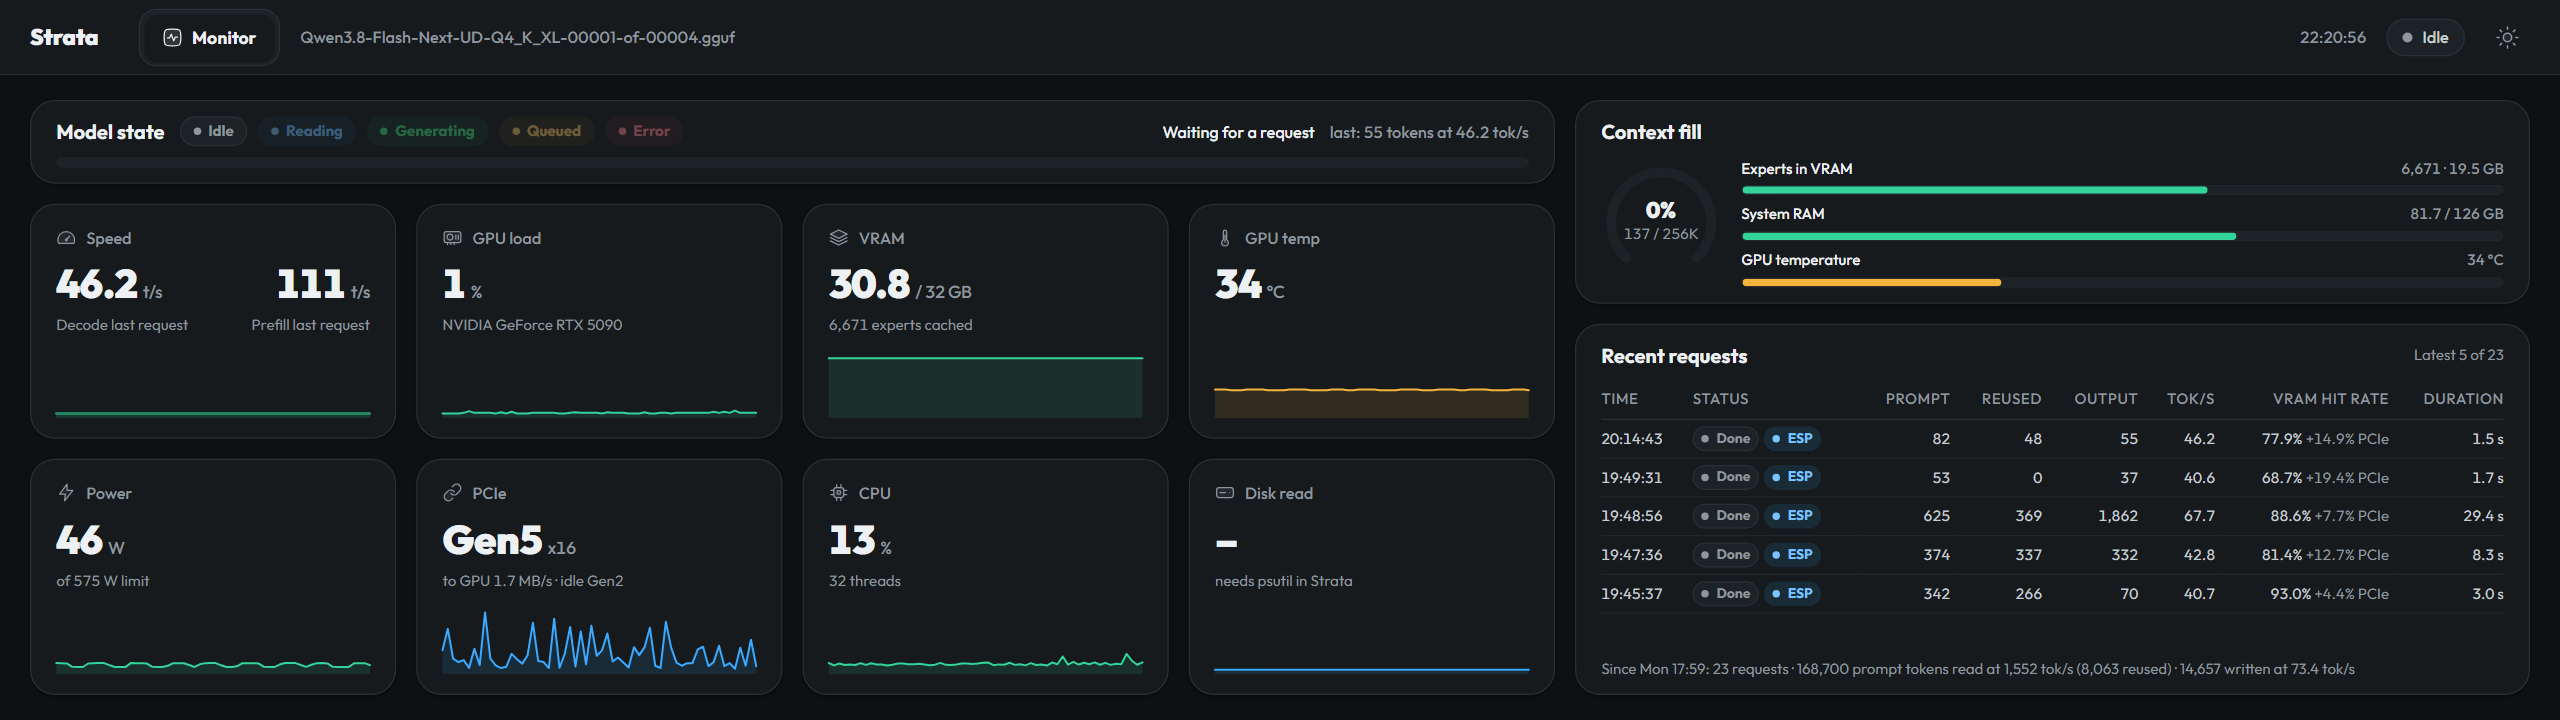
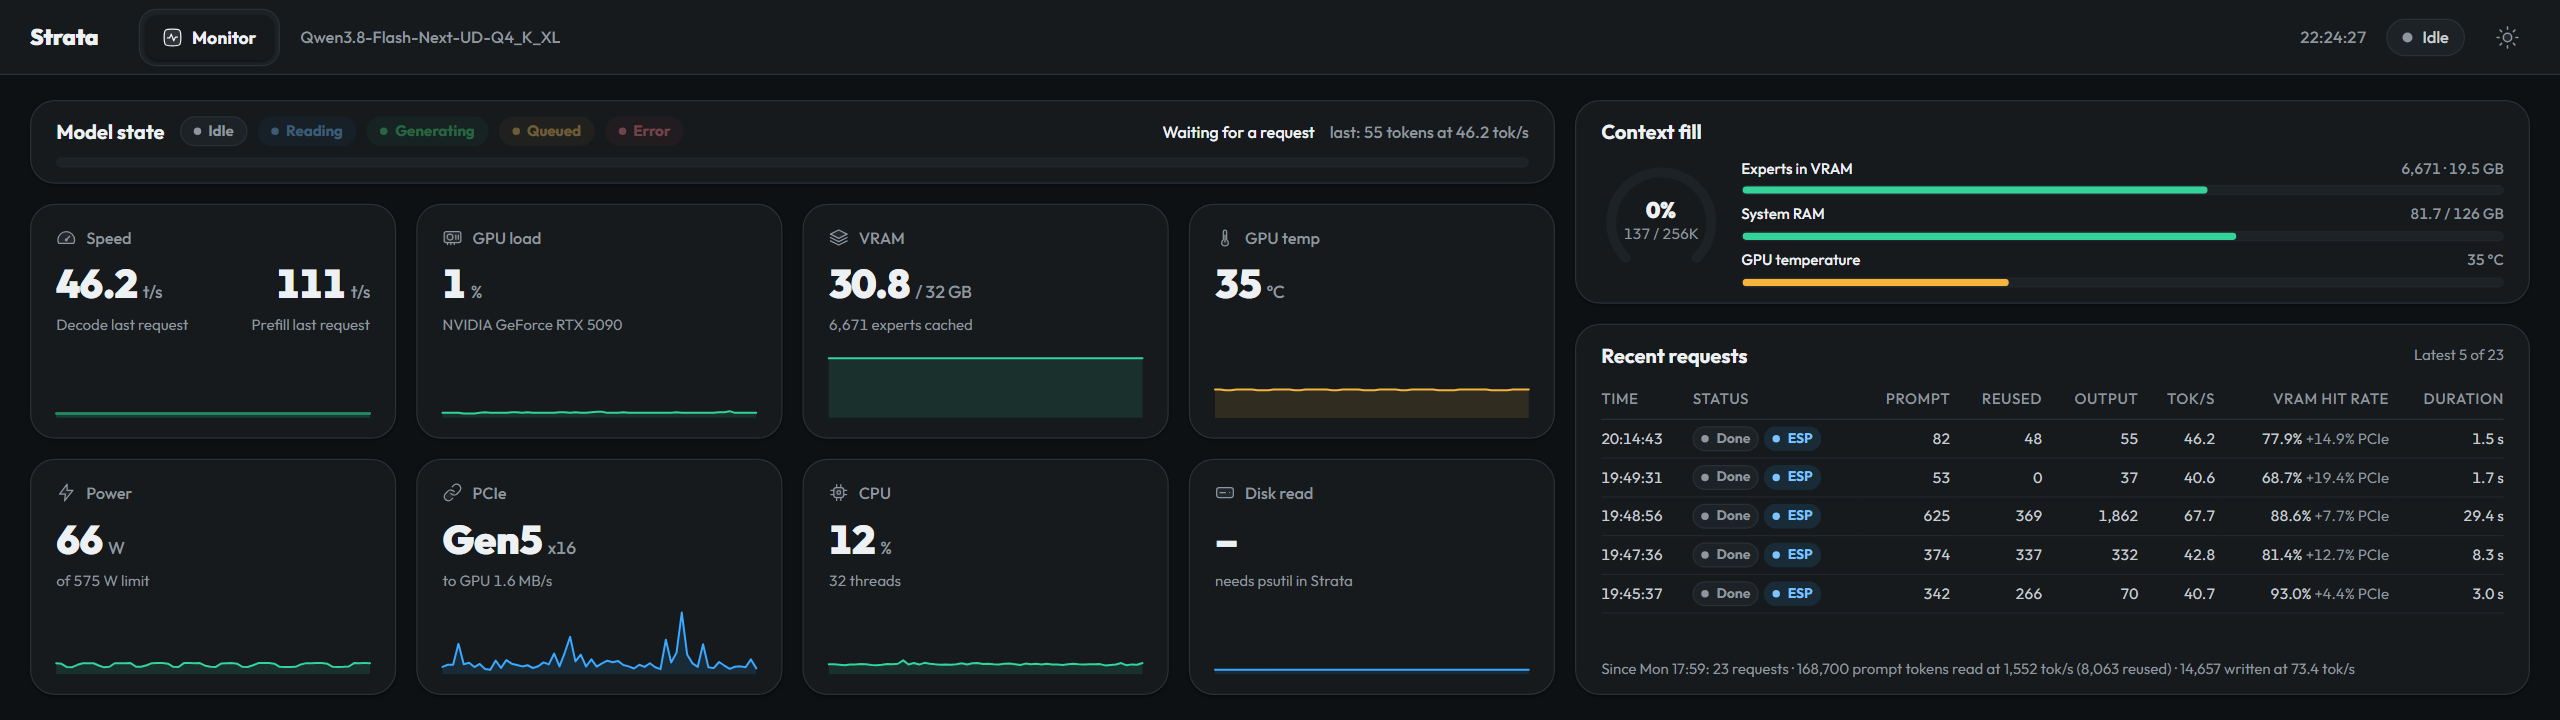
Shorten screenshot model label through quantization suffix

diff --git a/README.md b/README.md
@@ -8,7 +8,7 @@ Strata v0.1.39 の公式 Web UI「Monitor」を XENEON EDGE（2560×720）に合
 
 ## スクリーンショット
 
-2560×720のブラウザープレビュー（v0.1.5、実データ）。モデル表示名は公開用に、量子化を含むダウンロード済みGGUFのファイル名（先頭シャード）へ置き換えています。XENEON EDGE本体の写真ではありません。アイドル時の速度は直近リクエストの値で、グラフは公式と同じ60秒の履歴です。
+2560×720のブラウザープレビュー（v0.1.5、実データ）。モデル表示名は公開用に、ダウンロード済みGGUFのファイル名からシャード番号と拡張子を省いた `Qwen3.8-Flash-Next-UD-Q4_K_XL` に置き換えています。XENEON EDGE本体の写真ではありません。アイドル時の速度は直近リクエストの値で、グラフは公式と同じ60秒の履歴です。
 
 **ダーク**
 

diff --git a/README.en.md b/README.en.md
@@ -8,7 +8,7 @@ A community iCUE widget that adapts the official Strata v0.1.39 Web UI **Monitor
 
 ## Screenshots
 
-Browser previews at 2560×720, captured with v0.1.5 and real monitoring data. For publication, the model display name is replaced with the downloaded GGUF filename (first shard), including its quantization. These are not photographs of the XENEON EDGE display. While idle, speed numbers show the last request; graphs show the official 60-second history.
+Browser previews at 2560×720, captured with v0.1.5 and real monitoring data. For publication, the model display name is replaced with `Qwen3.8-Flash-Next-UD-Q4_K_XL`, the downloaded GGUF filename with the shard number and extension omitted. These are not photographs of the XENEON EDGE display. While idle, speed numbers show the last request; graphs show the official 60-second history.
 
 **Dark**
 
